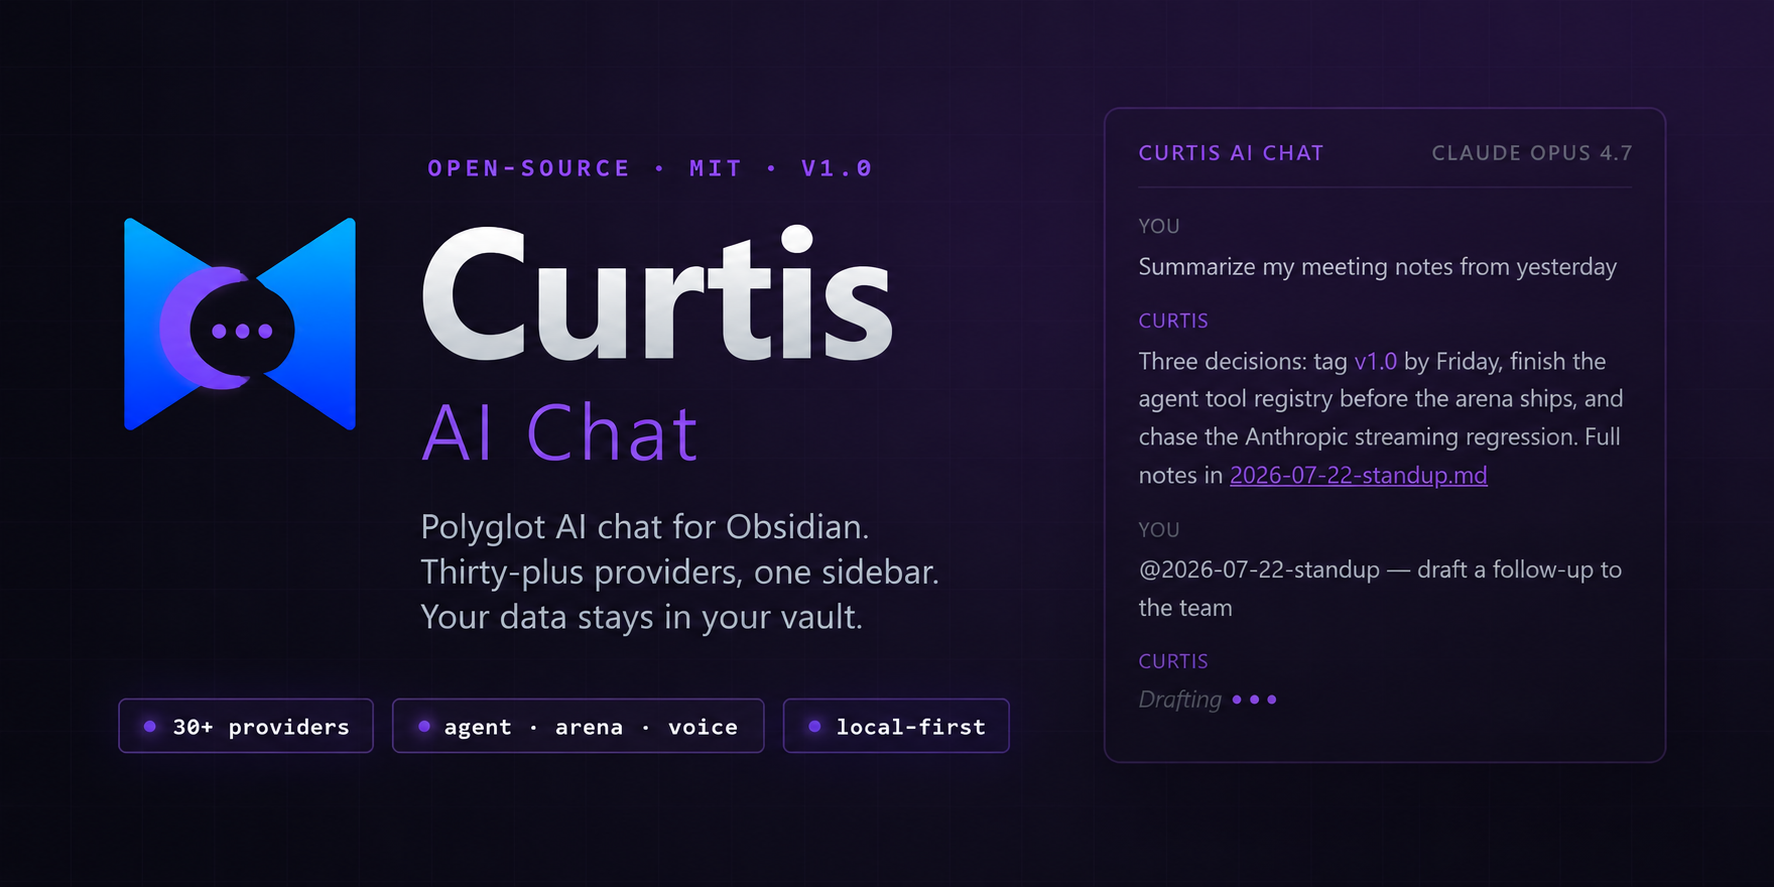
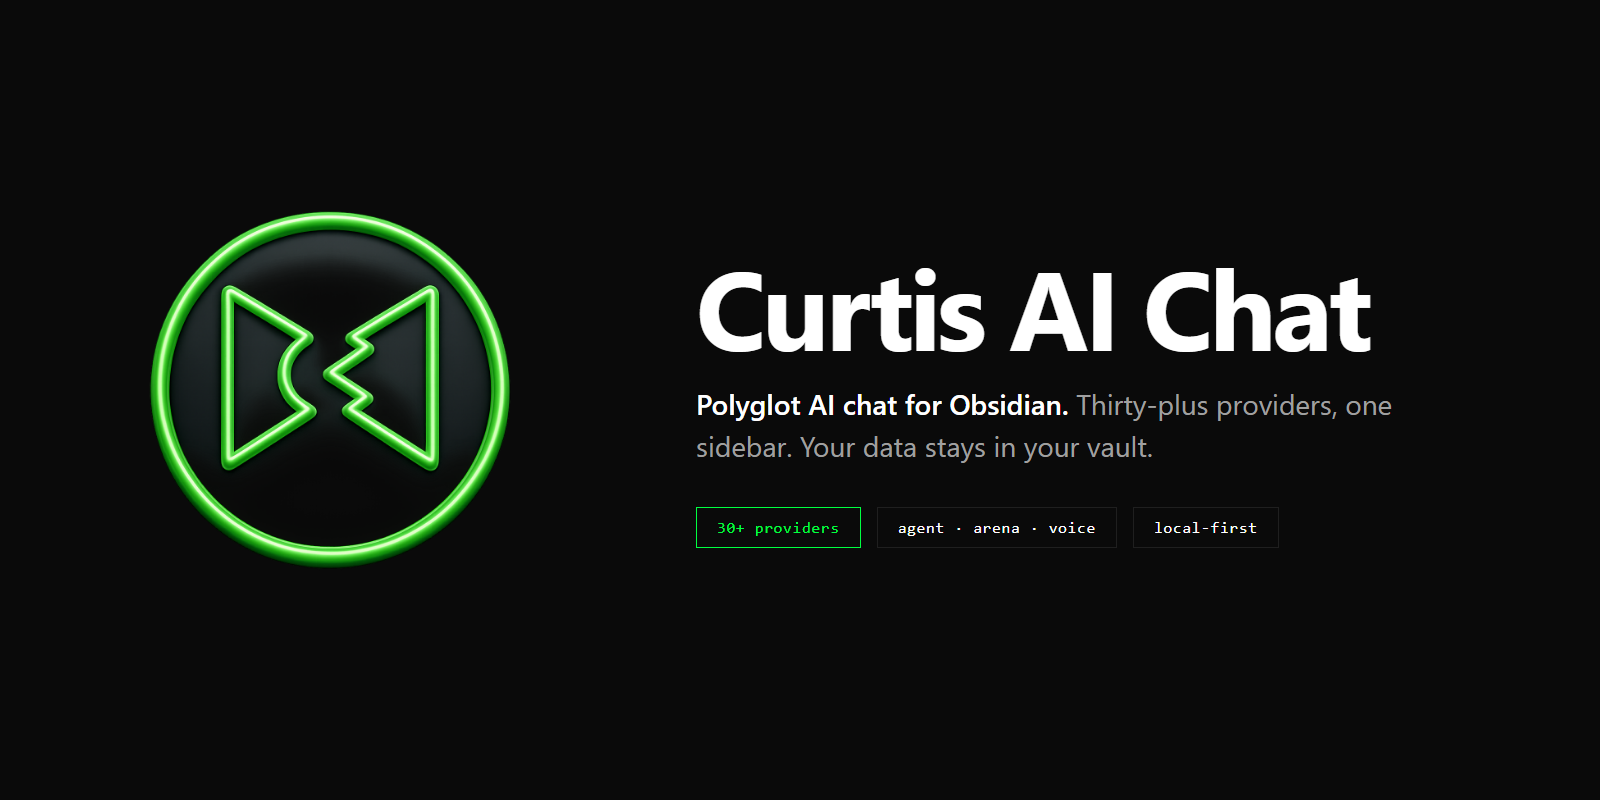
docs(brand): rebuild README hero + badges on NEWELL brand system
Old hero was a textbook anti-pattern showcase: purple #14101f
background, linear + radial gradients, 48px Tron-grid overlay,
Segoe UI font stack, drop-shadow glow on logo, invented chat-bubble
SVG, indigo/violet badge palette. Every NEWELL violation in one
file.

New hero:
- #0A0A0A background (NEWELL soft black, not pure #000)
- #FFFFFF text, #A0A0A0 muted
- #00FF41 accent (single chip border + wordmark dot)
- curtis-ai-mark.png (matches docs/assets/ version used on Pages site)
- system sans (matches recent site decision to drop Newell typeface)
- architectural two-column grid, 30%+ negative space
- no gradients, no shadows, no glow, no grid background, no fake chat

Badges migrated to NEWELL palette:
- website, release, providers, build → #00FF41 primary
- license → #A0A0A0 muted
- discussions → #1AFF72 accent lift
- Obsidian badge kept at #7C3AED (Obsidian's actual brand color —
  contextual exception)
- build badge text "0 warnings" → "0 errors" (53 pre-existing
  display-deprecation warnings are non-blocking per 1.0.3 notes)

curtis-ai-mark.png added to assets/ so hero.html can be re-rendered
from source.

diff --git a/assets/hero.html b/assets/hero.html
@@ -2,205 +2,71 @@
 <html lang="en">
 <head>
 <meta charset="utf-8">
+<title>Curtis AI Chat — hero</title>
 <style>
   * { box-sizing: border-box; margin: 0; padding: 0; }
-  html { background: #14101f; }
-  html, body { width: 1280px; height: 400px; overflow: hidden; }
+  html, body { width: 1600px; height: 800px; overflow: hidden; }
   body {
-    background:
-      radial-gradient(ellipse at top right, rgba(168, 85, 247, 0.15), transparent 60%),
-      linear-gradient(135deg, #14101f 0%, #1a1429 60%, #08050f 100%);
-    color: #e6edf3;
-    font-family: 'Segoe UI', system-ui, -apple-system, sans-serif;
-    display: flex;
+    background: #0A0A0A;
+    color: #FFFFFF;
+    font-family: system-ui, -apple-system, "Segoe UI", Roboto, sans-serif;
+    display: grid;
+    grid-template-columns: 480px 1fr;
     align-items: center;
-    padding: 0 80px;
-    position: relative;
+    padding: 0 120px;
+    gap: 96px;
   }
-  body::before {
-    content: '';
-    position: absolute;
-    inset: 0;
-    background-image:
-      linear-gradient(rgba(168, 85, 247, 0.04) 1px, transparent 1px),
-      linear-gradient(90deg, rgba(168, 85, 247, 0.04) 1px, transparent 1px);
-    background-size: 48px 48px;
-    pointer-events: none;
+  .mark {
+    width: 420px;
+    height: 420px;
+    display: block;
   }
-  .sidebar {
-    position: absolute;
-    right: 64px;
-    top: 50%;
-    transform: translateY(-50%);
-    opacity: 0.5;
-    width: 280px;
-    background: rgba(20, 16, 31, 0.7);
-    border: 1px solid rgba(168, 85, 247, 0.3);
-    border-radius: 8px;
-    padding: 14px 16px;
-    font-family: 'Segoe UI', system-ui, sans-serif;
-    font-size: 11.5px;
-    line-height: 1.5;
-    color: #b1bac4;
-    backdrop-filter: blur(4px);
-    box-shadow: 0 8px 24px rgba(0, 0, 0, 0.3);
-  }
-  .sidebar .sb-head {
-    color: #a855f7;
-    font-weight: 600;
-    font-size: 10.5px;
-    text-transform: uppercase;
-    letter-spacing: 0.12em;
-    padding-bottom: 8px;
-    border-bottom: 1px solid rgba(168, 85, 247, 0.2);
-    margin-bottom: 10px;
-    display: flex;
-    justify-content: space-between;
-  }
-  .sidebar .msg { margin-bottom: 10px; }
-  .sidebar .you { color: #7d8590; font-size: 10px; margin-bottom: 3px; text-transform: uppercase; letter-spacing: 0.08em; }
-  .sidebar .ai { color: #a855f7; font-size: 10px; margin-bottom: 3px; text-transform: uppercase; letter-spacing: 0.08em; }
-  .sidebar .body { color: #e6edf3; font-size: 12px; }
-  .sidebar .ai .body { color: #d2a8ff; }
-  .sidebar .typing { color: #7d8590; font-style: italic; font-size: 11px; }
-  .sidebar .typing::after {
-    content: '●●●';
-    color: #a855f7;
-    letter-spacing: 2px;
-    margin-left: 4px;
-  }
-  .content {
-    position: relative;
-    z-index: 2;
-    max-width: 740px;
-  }
-  .logo-row {
-    display: flex;
-    align-items: center;
-    gap: 18px;
-    margin-bottom: 22px;
-  }
-  .logo {
-    width: 56px;
-    height: 64px;
-    filter: drop-shadow(0 0 12px rgba(168, 85, 247, 0.6));
-  }
-  .eyebrow {
-    font-family: Consolas, 'Cascadia Code', monospace;
-    color: #a855f7;
-    font-size: 12px;
-    letter-spacing: 0.22em;
-    text-transform: uppercase;
-    font-weight: 600;
-  }
-  h1 {
-    font-size: 76px;
+  .content { max-width: 880px; }
+  .wordmark {
+    font-size: 112px;
     font-weight: 700;
-    letter-spacing: -0.025em;
-    line-height: 1;
-    margin-bottom: 6px;
-    background: linear-gradient(180deg, #ffffff 0%, #b1bac4 100%);
-    -webkit-background-clip: text;
-    background-clip: text;
-    -webkit-text-fill-color: transparent;
+    letter-spacing: -0.035em;
+    line-height: 0.95;
+    color: #FFFFFF;
+    margin-bottom: 24px;
   }
-  .subtitle {
-    font-size: 36px;
-    font-weight: 300;
-    letter-spacing: 0.04em;
-    line-height: 1;
-    margin-bottom: 22px;
-    color: #a855f7;
-    text-shadow: 0 0 18px rgba(168, 85, 247, 0.35);
-  }
+  .wordmark .dot { color: #00FF41; }
   .tagline {
-    color: #b1bac4;
-    font-size: 19px;
+    font-size: 28px;
     line-height: 1.5;
-    margin-bottom: 30px;
-    max-width: 600px;
+    color: #A0A0A0;
+    max-width: 720px;
+    margin-bottom: 40px;
+    font-weight: 400;
   }
+  .tagline strong { color: #FFFFFF; font-weight: 500; }
   .chips {
     display: flex;
-    gap: 10px;
+    gap: 16px;
+    flex-wrap: wrap;
   }
   .chip {
-    font-family: Consolas, 'Cascadia Code', monospace;
-    font-size: 12.5px;
-    font-weight: 600;
-    padding: 7px 14px;
-    border: 1px solid rgba(168, 85, 247, 0.4);
-    border-radius: 4px;
-    background: rgba(168, 85, 247, 0.08);
-    color: #e6edf3;
-    display: inline-flex;
-    align-items: center;
-    gap: 8px;
-    letter-spacing: 0.05em;
+    font-family: ui-monospace, "SF Mono", Menlo, Consolas, monospace;
+    font-size: 16px;
+    font-weight: 500;
+    padding: 10px 20px;
+    border: 1px solid #1F1F1F;
+    color: #FFFFFF;
+    letter-spacing: 0.04em;
   }
-  .chip::before {
-    content: '';
-    width: 6px;
-    height: 6px;
-    border-radius: 50%;
-    background: #a855f7;
-    box-shadow: 0 0 6px #a855f7;
+  .chip.accent {
+    border-color: #00FF41;
+    color: #00FF41;
   }
 </style>
 </head>
 <body>
-  <div class="sidebar">
-    <div class="sb-head"><span>Curtis AI Chat</span><span style="color:#7d8590">Claude Opus 4.7</span></div>
-    <div class="msg">
-      <div class="you">You</div>
-      <div class="body">Summarize my meeting notes from yesterday</div>
-    </div>
-    <div class="msg">
-      <div class="ai">Curtis</div>
-      <div class="body">Three decisions: tag <span style="color:#a855f7;">v1.0</span> by Friday, finish the agent tool registry before the arena ships, and chase the Anthropic streaming regression. Full notes in <span style="color:#a855f7;text-decoration:underline;">2026-07-22-standup.md</span></div>
-    </div>
-    <div class="msg">
-      <div class="you">You</div>
-      <div class="body">@2026-07-22-standup — draft a follow-up to the team</div>
-    </div>
-    <div class="msg">
-      <div class="ai">Curtis</div>
-      <div class="body typing">Drafting</div>
-    </div>
-  </div>
+  <img class="mark" src="curtis-ai-mark.png" alt="Curtis AI">
   <div class="content">
-    <div class="logo-row">
-      <svg class="logo" viewBox="0 0 80 80" fill="none">
-        <defs>
-          <linearGradient id="cGrad" x1="0" y1="0" x2="1" y2="1">
-            <stop offset="0%" stop-color="#A78BFA"/>
-            <stop offset="100%" stop-color="#6D28D9"/>
-          </linearGradient>
-          <linearGradient id="bubbleGrad" x1="0" y1="0" x2="0" y2="1">
-            <stop offset="0%" stop-color="#4ADE80"/>
-            <stop offset="100%" stop-color="#10B981"/>
-          </linearGradient>
-          <linearGradient id="bubbleSheen" x1="0" y1="0" x2="0" y2="1">
-            <stop offset="0%" stop-color="#FFFFFF" stop-opacity="0.3"/>
-            <stop offset="60%" stop-color="#FFFFFF" stop-opacity="0"/>
-          </linearGradient>
-        </defs>
-        <path d="M 58 16 A 28 28 0 1 0 58 64" stroke="url(#cGrad)" stroke-width="14" fill="none" stroke-linecap="round"/>
-        <g transform="translate(42 40)">
-          <path d="M -8 -8 H 6 Q 10 -8 10 -4 V 2 Q 10 6 6 6 H -2 L -8 12 L -6 6 H -8 Q -12 6 -12 2 V -4 Q -12 -8 -8 -8 Z" fill="url(#bubbleGrad)"/>
-          <path d="M -8 -8 H 6 Q 10 -8 10 -4 V 2 Q 10 6 6 6 H -2 L -8 12 L -6 6 H -8 Q -12 6 -12 2 V -4 Q -12 -8 -8 -8 Z" fill="url(#bubbleSheen)"/>
-          <circle cx="-3" cy="-1" r="1.4" fill="#09090B" opacity="0.85"/>
-          <circle cx="1"  cy="-1" r="1.4" fill="#09090B" opacity="0.85"/>
-          <circle cx="5"  cy="-1" r="1.4" fill="#09090B" opacity="0.85"/>
-        </g>
-      </svg>
-      <div class="eyebrow">Open-source · MIT · v1.0</div>
-    </div>
-    <h1>Curtis</h1>
-    <div class="subtitle">AI Chat</div>
-    <p class="tagline">Polyglot AI chat for Obsidian. Thirty-plus providers, one sidebar. Your data stays in your vault.</p>
+    <h1 class="wordmark">Curtis AI Chat</h1>
+    <p class="tagline"><strong>Polyglot AI chat for Obsidian.</strong> Thirty-plus providers, one sidebar. Your data stays in your vault.</p>
     <div class="chips">
-      <span class="chip">30+ providers</span>
+      <span class="chip accent">30+ providers</span>
       <span class="chip">agent · arena · voice</span>
       <span class="chip">local-first</span>
     </div>

diff --git a/README.md b/README.md
@@ -9,12 +9,12 @@
 
 <p align="center">
   <a href="https://jordannewell.github.io/curtis-ai-chat/"><img src="https://img.shields.io/badge/website-live-00FF41" alt="Live site"></a>
-  <a href="https://github.com/JordanNewell/curtis-ai-chat/releases"><img src="https://img.shields.io/badge/release-1.0.4--rc1-blue" alt="Latest release"></a>
-  <a href="./LICENSE"><img src="https://img.shields.io/badge/license-MIT-blue.svg" alt="License: MIT"></a>
+  <a href="https://github.com/JordanNewell/curtis-ai-chat/releases"><img src="https://img.shields.io/badge/release-1.0.4--rc1-00FF41" alt="Latest release"></a>
+  <a href="./LICENSE"><img src="https://img.shields.io/badge/license-MIT-A0A0A0.svg" alt="License: MIT"></a>
   <img src="https://img.shields.io/badge/Obsidian-1.13%2B-7C3AED?logo=obsidian&logoColor=white" alt="Obsidian 1.13+">
-  <img src="https://img.shields.io/badge/providers-30%2B-8B5CF6" alt="30+ providers">
-  <img src="https://img.shields.io/badge/build-0%20warnings-10B981" alt="Zero lint warnings">
-  <a href="https://github.com/JordanNewell/curtis-ai-chat/discussions"><img src="https://img.shields.io/github/discussions/JordanNewell/curtis-ai-chat?label=discussions&color=34D399" alt="GitHub Discussions"></a>
+  <img src="https://img.shields.io/badge/providers-30%2B-00FF41" alt="30+ providers">
+  <img src="https://img.shields.io/badge/build-0%20errors-00FF41" alt="Build: 0 errors">
+  <a href="https://github.com/JordanNewell/curtis-ai-chat/discussions"><img src="https://img.shields.io/github/discussions/JordanNewell/curtis-ai-chat?label=discussions&color=1AFF72" alt="GitHub Discussions"></a>
 </p>
 
 <p align="center">
